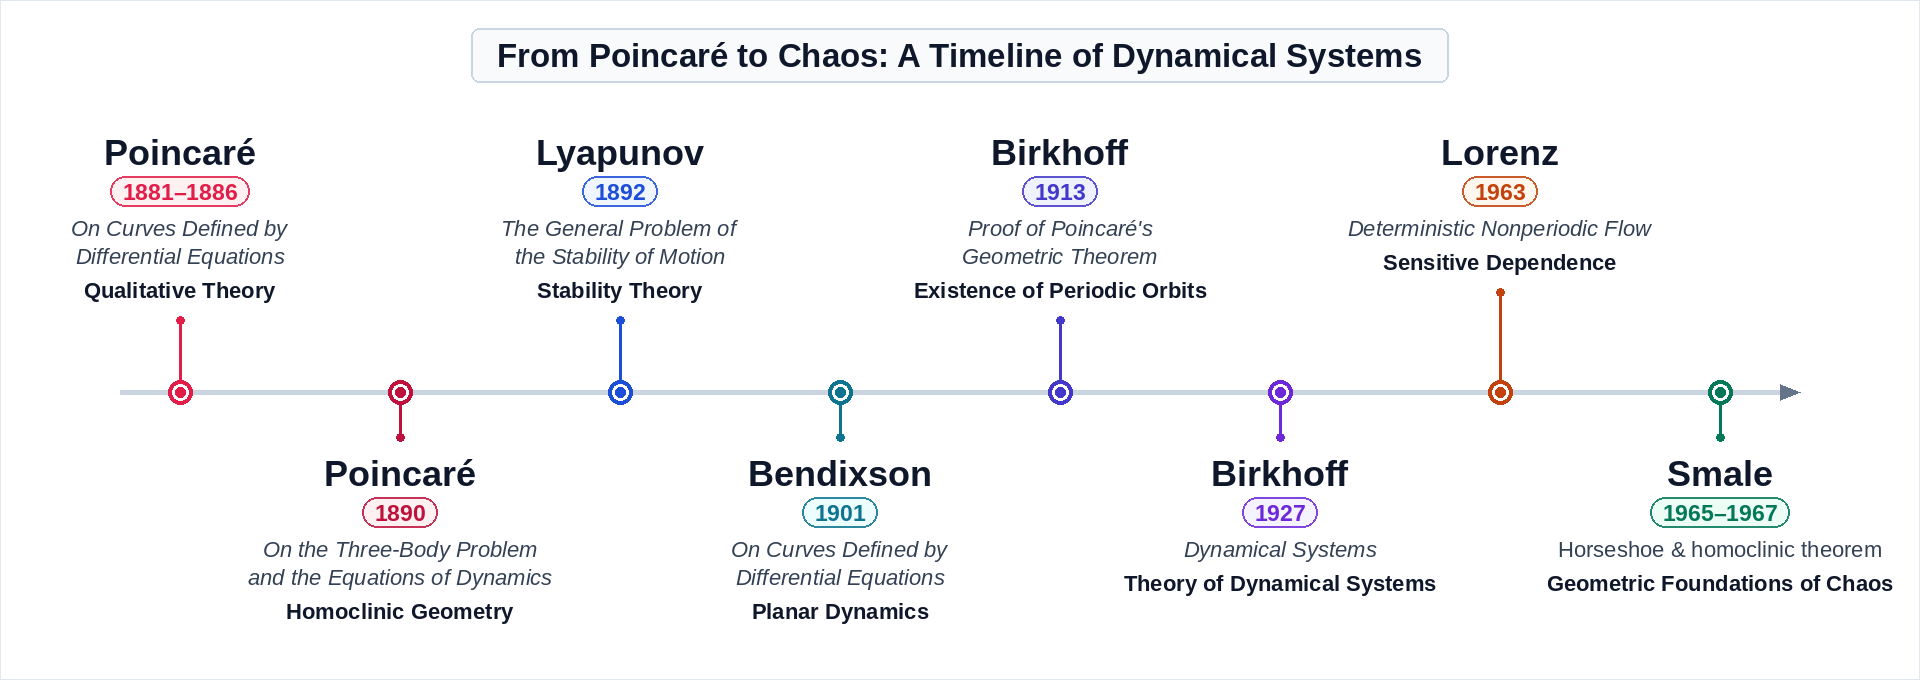
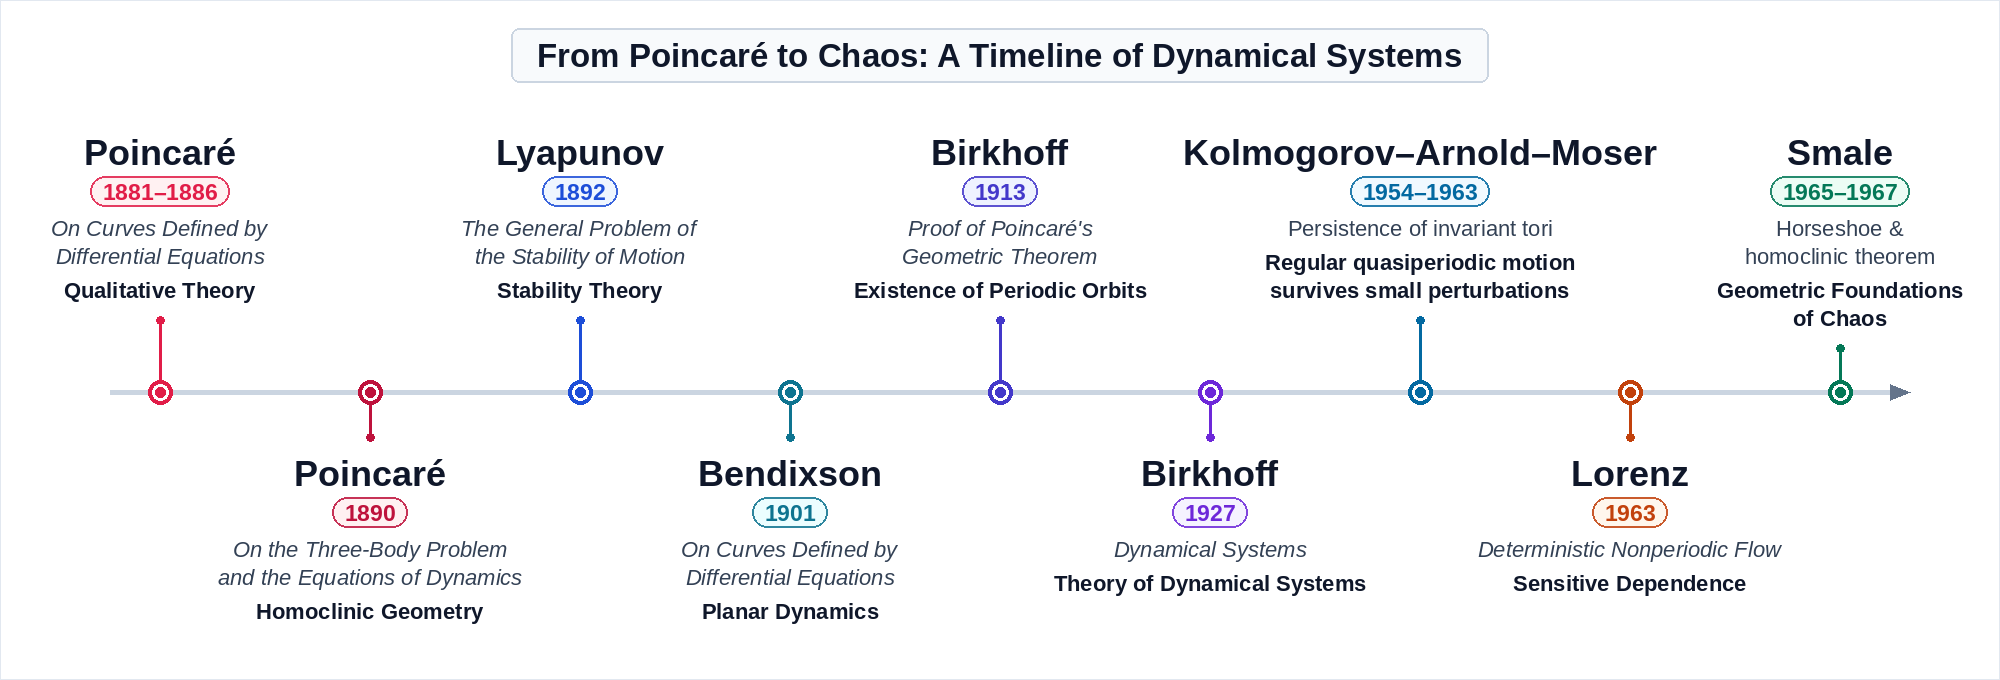
From Poincaré to Chaos II: update timeline with KAM theory milestone and full references

diff --git a/the_road_to_modern_dynamics_2/code/generate_dynamical_systems_timeline.py b/the_road_to_modern_dynamics_2/code/generate_dynamical_systems_timeline.py
@@ -101,8 +101,19 @@ MILESTONES = [
         "light": (245, 243, 255),    # #f5f3ff
     },
     {
-        "id": "lorenz",
+        "id": "kam",
         "position": "above",
+        "name": "Kolmogorov–Arnold–Moser",
+        "year": "1954–1963",
+        "work": "Persistence of invariant tori",
+        "work_italic": False,
+        "concept": "Regular quasiperiodic motion\nsurvives small perturbations",
+        "accent": (3, 105, 161),     # Deep Sky / Cobalt Blue (#0369a1)
+        "light": (240, 249, 255),    # #f0f9ff
+    },
+    {
+        "id": "lorenz",
+        "position": "below",
         "name": "Lorenz",
         "year": "1963",
         "work": "Deterministic Nonperiodic Flow",
@@ -113,12 +124,12 @@ MILESTONES = [
     },
     {
         "id": "smale",
-        "position": "below",
+        "position": "above",
         "name": "Smale",
         "year": "1965–1967",
-        "work": "Horseshoe & homoclinic theorem",
+        "work": "Horseshoe &\nhomoclinic theorem",
         "work_italic": False,
-        "concept": "Geometric Foundations of Chaos",
+        "concept": "Geometric Foundations\nof Chaos",
         "accent": (4, 120, 87),      # Deep Emerald (#047857 - topological)
         "light": (236, 253, 245),    # #ecfdf5
     },
@@ -152,8 +163,8 @@ def create_timeline(output_path=None):
     output_path = Path(output_path)
     output_path.parent.mkdir(parents=True, exist_ok=True)
 
-    # Canvas dimensions: 1920 x 680 px for 8 milestones
-    W, H = 1920, 680
+    # Canvas dimensions: 2000 x 680 px for 9 milestones
+    W, H = 2000, 680
     img = Image.new('RGBA', (W, H), BG_COLOR)
     draw = ImageDraw.Draw(img)
 
@@ -183,18 +194,18 @@ def create_timeline(output_path=None):
 
     # 2. Timeline Axis Geometry
     spine_y = 392
-    start_x = 180
-    end_x = 1720
-    step_x = (end_x - start_x) / 7  # 7 intervals for 8 milestones (220 px)
+    start_x = 160
+    end_x = 1840
+    step_x = (end_x - start_x) / (len(MILESTONES) - 1)
 
     # Draw continuous horizontal rail
-    draw.line([(start_x - 60, spine_y), (end_x + 60, spine_y)], fill=SPINE_COLOR, width=5)
+    draw.line([(start_x - 50, spine_y), (end_x + 50, spine_y)], fill=SPINE_COLOR, width=5)
 
     # Terminal arrow pointing right
     draw.polygon([
-        (end_x + 80, spine_y),
-        (end_x + 60, spine_y - 8),
-        (end_x + 60, spine_y + 8)
+        (end_x + 70, spine_y),
+        (end_x + 50, spine_y - 8),
+        (end_x + 50, spine_y + 8)
     ], fill=(100, 116, 139, 255))
 
     # Render each milestone
@@ -211,7 +222,7 @@ def create_timeline(output_path=None):
         font_ref = font_work_italic if m["work_italic"] else font_work_roman
 
         if is_above:
-            # UPPER MILESTONE (Poincaré 1881, Lyapunov 1892, Birkhoff 1913, Lorenz 1963)
+            # UPPER MILESTONE (Poincaré 1881, Lyapunov 1892, Birkhoff 1913, KAM 1954–1963, Smale 1965–1967)
             cur_y = 132
 
             # Surname (36pt bold Navy)
@@ -237,11 +248,13 @@ def create_timeline(output_path=None):
                 draw.text((cx - w_w / 2, cur_y), w_line, font=font_ref, fill=PROMINENT_SLATE)
                 cur_y += 28 if w_idx < len(work_lines) - 1 else 34
 
-            # Concept line (22pt bold NAVY #0f172a)
-            c_bbox = draw.textbbox((0, 0), m["concept"], font=font_concept)
-            c_w = c_bbox[2] - c_bbox[0]
-            draw.text((cx - c_w / 2, cur_y), m["concept"], font=font_concept, fill=NAVY)
-            cur_y += 30
+            # Concept line (single or multiline, 22pt bold NAVY #0f172a)
+            concept_lines = m["concept"].split("\n")
+            for c_idx, c_line in enumerate(concept_lines):
+                c_bbox = draw.textbbox((0, 0), c_line, font=font_concept)
+                c_w = c_bbox[2] - c_bbox[0]
+                draw.text((cx - c_w / 2, cur_y), c_line, font=font_concept, fill=NAVY)
+                cur_y += 28 if c_idx < len(concept_lines) - 1 else 30
 
             # Vertical stem line from bottom of text cluster down to spine node
             stem_top = cur_y + 12
@@ -250,7 +263,7 @@ def create_timeline(output_path=None):
             draw.ellipse([cx - 4, stem_top - 4, cx + 4, stem_top + 4], fill=accent + (255,))
 
         else:
-            # LOWER MILESTONE (Poincaré 1890, Bendixson 1901, Birkhoff 1927, Smale 1965–1967)
+            # LOWER MILESTONE (Poincaré 1890, Bendixson 1901, Birkhoff 1927, Lorenz 1963)
             stem_bot = spine_y + 45
             draw.line([(cx, spine_y + 12), (cx, stem_bot)], fill=accent + (255,), width=3)
             # Anchor dot at bottom of stem
@@ -282,17 +295,21 @@ def create_timeline(output_path=None):
                 draw.text((cx - w_w / 2, cur_y), w_line, font=font_ref, fill=PROMINENT_SLATE)
                 cur_y += 28 if w_idx < len(work_lines) - 1 else 34
 
-            # Concept line (22pt bold NAVY #0f172a)
-            c_bbox = draw.textbbox((0, 0), m["concept"], font=font_concept)
-            c_w = c_bbox[2] - c_bbox[0]
-            draw.text((cx - c_w / 2, cur_y), m["concept"], font=font_concept, fill=NAVY)
-            cur_y += 30
+            # Concept line (single or multiline, 22pt bold NAVY #0f172a)
+            concept_lines = m["concept"].split("\n")
+            for c_idx, c_line in enumerate(concept_lines):
+                c_bbox = draw.textbbox((0, 0), c_line, font=font_concept)
+                c_w = c_bbox[2] - c_bbox[0]
+                draw.text((cx - c_w / 2, cur_y), c_line, font=font_concept, fill=NAVY)
+                cur_y += 28 if c_idx < len(concept_lines) - 1 else 30
 
     # Subtle outer framing border
     draw.rectangle([0, 0, W - 1, H - 1], outline=(226, 232, 240, 255), width=1)
 
     img.save(output_path, "PNG", optimize=True)
     print(f"Dynamical systems timeline saved to: {output_path} ({W}x{H} px)")
+
+
 
 if __name__ == "__main__":
     create_timeline()

diff --git a/the_road_to_modern_dynamics_2/README.md b/the_road_to_modern_dynamics_2/README.md
@@ -162,8 +162,9 @@ This project reconstructs the foundational theories, numerical simulations, and 
   * **1901**: Bendixson's theorem on planar limit cycles.
   * **1913**: Birkhoff's proof of Poincaré's Geometric Theorem.
   * **1927**: Birkhoff publishes *Dynamical Systems*.
-  * **1963**: Lorenz discovers the strange attractor and butterfly effect.
-  * **1967**: Smale introduces horseshoe dynamics and structural stability.
+  * **1954–1963**: Kolmogorov–Arnold–Moser (KAM) theory and persistence of invariant tori under perturbation.
+  * **1963**: Lorenz discovers sensitive dependence on initial conditions in deterministic nonperiodic flow.
+  * **1965–1967**: Smale introduces the horseshoe map and geometric foundations of chaos.
 * **Script**: `code/generate_dynamical_systems_timeline.py`
 
 ## 📁 Directory Structure
@@ -292,16 +293,20 @@ The test suite validates:
 10. **Birkhoff, G. D. (1912).** *Quelques théorèmes sur le mouvement des systèmes dynamiques.* Bulletin de la Société Mathématique de France, 40, 305–323. [Original paper: Numdam](https://www.numdam.org/item/BSMF_1912__40__305_0/)
 11. **Birkhoff, G. D. (1913).** *Proof of Poincaré's Geometric Theorem.* Transactions of the American Mathematical Society, 14(1), 14–22. [Original paper: AMS PDF](https://www.ams.org/journals/tran/1913-014-01/S0002-9947-1913-1500933-9/S0002-9947-1913-1500933-9.pdf)
 12. **Birkhoff, G. D. (1927).** *Dynamical Systems.* American Mathematical Society Colloquium Publications, Vol. IX. [Digitized edition: Internet Archive](https://archive.org/details/dynamicalsystems00birk) · [AMS DOI](https://doi.org/10.1090/COLL/009/01)
-13. **Lorenz, E. N. (1963).** *Deterministic Nonperiodic Flow.* Journal of the Atmospheric Sciences, 20(2), 130–141. [Original journal article](https://journals.ametsoc.org/view/journals/atsc/20/2/1520-0469_1963_020_0130_dnf_2_0_co_2.xml)
-14. **Smale, S. (1965).** *Diffeomorphisms with Many Periodic Points.* In *Differential and Combinatorial Topology (A Symposium in Honor of Marston Morse)*, S. S. Cairns (Ed.), Princeton Mathematical Series, Vol. 27, Princeton University Press, pp. 63–80. [Bibliographic record: Math-Net.Ru](https://www.mathnet.ru/php/archive.phtml?jrnid=mat&option_lang=eng&paperid=439&wshow=paper)
-15. **Adler, R. L., Konheim, A. G., & McAndrew, M. H. (1965).** *Topological Entropy.* Transactions of the American Mathematical Society, 114(2), 309–319. [AMS DOI](https://doi.org/10.1090/S0002-9947-1965-0175106-9)
-16. **Smale, S. (1967).** *Differentiable Dynamical Systems.* Bulletin of the American Mathematical Society, 73(6), 747–817. [AMS DOI](https://doi.org/10.1090/S0002-9904-1967-11798-1)
-17. **Oseledets, V. I. (1968).** *A Multiplicative Ergodic Theorem: Characteristic Lyapunov Exponents of Dynamical Systems.* Transactions of the Moscow Mathematical Society, 19, 197–231. [Bibliographic record and original Russian paper: Math-Net.Ru](https://www.mathnet.ru/php/archive.phtml?jrnid=mmo&option_lang=eng&paperid=214&wshow=paper)
-18. **Devaney, R. L. (1989).** *An Introduction to Chaotic Dynamical Systems* (2nd ed.). Redwood City: Addison-Wesley. [Library bibliographic record: KIT](https://katalog.bibliothek.kit.edu/bib/61005)
-19. **Barrow-Green, J. (1993).** *Poincaré and the Three Body Problem.* Ph.D. thesis, The Open University. [Open Research Online: ORO ID 57403](https://oro.open.ac.uk/57403/), [DOI: 10.21954/ou.ro.0000e03b](https://doi.org/10.21954/ou.ro.0000e03b)
-20. **Barrow-Green, J. (1994).** *Oscar II's Prize Competition and the Error in Poincaré's Memoir on the Three Body Problem.* Archive for History of Exact Sciences, 48, 107–131. [DOI: 10.1007/BF00374436](https://doi.org/10.1007/BF00374436)
-21. **Andersson, K. G. (1994).** *Poincaré's Discovery of Homoclinic Points.* Archive for History of Exact Sciences, 48, 133–147. [DOI: 10.1007/BF00374437](https://doi.org/10.1007/BF00374437)
-22. **Rågstedt, M.** *From Order to Chaos: The Prize Competition in Honour of King Oscar II.* Institut Mittag-Leffler. [Historical account: Institut Mittag-Leffler](https://www.mittag-leffler.se/about-us/history/prize-competition/)
+13. **Kolmogorov, A. N. (1954).** *On Conservation of Conditionally Periodic Motions for a Small Change in Hamilton's Function.* Doklady Akademii Nauk SSSR, 98(4), 527–530. [English translation: Harvard PDF](https://courses.seas.harvard.edu/climate/eli/Courses/APM203/2003fall/Kolmogorov-KAM-1954.pdf) · [CERN Document Server](https://cds.cern.ch/record/430016)
+14. **Moser, J. (1962).** *On Invariant Curves of Area-Preserving Mappings of an Annulus.* Nachrichten der Akademie der Wissenschaften in Göttingen, Mathematisch-Physikalische Klasse, II, 1–20. [Digitized original: Google Books](https://books.google.com/books/about/On_Invariant_Curves_of_Area_preserving_M.html?id=DH11VIdcMPcC)
+15. **Arnold, V. I. (1963).** *Proof of A. N. Kolmogorov's Theorem on the Preservation of Quasi-Periodic Motions under Small Perturbations of the Hamiltonian.* Russian Mathematical Surveys, 18(5), 9–36. [DOI: 10.1070/RM1963v018n05ABEH004130](https://doi.org/10.1070/RM1963v018n05ABEH004130)
+16. **Lorenz, E. N. (1963).** *Deterministic Nonperiodic Flow.* Journal of the Atmospheric Sciences, 20(2), 130–141. [Original journal article](https://journals.ametsoc.org/view/journals/atsc/20/2/1520-0469_1963_020_0130_dnf_2_0_co_2.xml)
+17. **Smale, S. (1965).** *Diffeomorphisms with Many Periodic Points.* In *Differential and Combinatorial Topology (A Symposium in Honor of Marston Morse)*, S. S. Cairns (Ed.), Princeton Mathematical Series, Vol. 27, Princeton University Press, pp. 63–80. [Bibliographic record: Math-Net.Ru](https://www.mathnet.ru/php/archive.phtml?jrnid=mat&option_lang=eng&paperid=439&wshow=paper)
+18. **Adler, R. L., Konheim, A. G., & McAndrew, M. H. (1965).** *Topological Entropy.* Transactions of the American Mathematical Society, 114(2), 309–319. [AMS DOI](https://doi.org/10.1090/S0002-9947-1965-0175106-9)
+19. **Smale, S. (1967).** *Differentiable Dynamical Systems.* Bulletin of the American Mathematical Society, 73(6), 747–817. [AMS DOI](https://doi.org/10.1090/S0002-9904-1967-11798-1)
+20. **Oseledets, V. I. (1968).** *A Multiplicative Ergodic Theorem: Characteristic Lyapunov Exponents of Dynamical Systems.* Transactions of the Moscow Mathematical Society, 19, 197–231. [Bibliographic record and original Russian paper: Math-Net.Ru](https://www.mathnet.ru/php/archive.phtml?jrnid=mmo&option_lang=eng&paperid=214&wshow=paper)
+21. **Devaney, R. L. (1989).** *An Introduction to Chaotic Dynamical Systems* (2nd ed.). Redwood City: Addison-Wesley. [Library bibliographic record: KIT](https://katalog.bibliothek.kit.edu/bib/61005)
+22. **Barrow-Green, J. (1993).** *Poincaré and the Three Body Problem.* Ph.D. thesis, The Open University. [Open Research Online: ORO ID 57403](https://oro.open.ac.uk/57403/), [DOI: 10.21954/ou.ro.0000e03b](https://doi.org/10.21954/ou.ro.0000e03b)
+23. **Barrow-Green, J. (1994).** *Oscar II's Prize Competition and the Error in Poincaré's Memoir on the Three Body Problem.* Archive for History of Exact Sciences, 48, 107–131. [DOI: 10.1007/BF00374436](https://doi.org/10.1007/BF00374436)
+24. **Andersson, K. G. (1994).** *Poincaré's Discovery of Homoclinic Points.* Archive for History of Exact Sciences, 48, 133–147. [DOI: 10.1007/BF00374437](https://doi.org/10.1007/BF00374437)
+25. **Dumas, H. S. (2014).** *The KAM Story: A Friendly Introduction to the Content, History, and Significance of Classical Kolmogorov–Arnold–Moser Theory.* World Scientific. [The KAM Story — World Scientific](https://doi.org/10.1142/8955)
+26. **Rågstedt, M.** *From Order to Chaos: The Prize Competition in Honour of King Oscar II.* Institut Mittag-Leffler. [Historical account: Institut Mittag-Leffler](https://www.mittag-leffler.se/about-us/history/prize-competition/)
 
 ---
 
